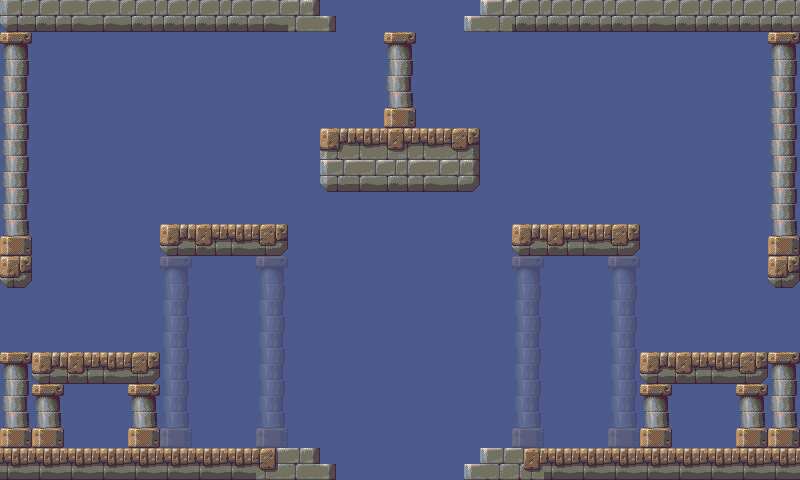
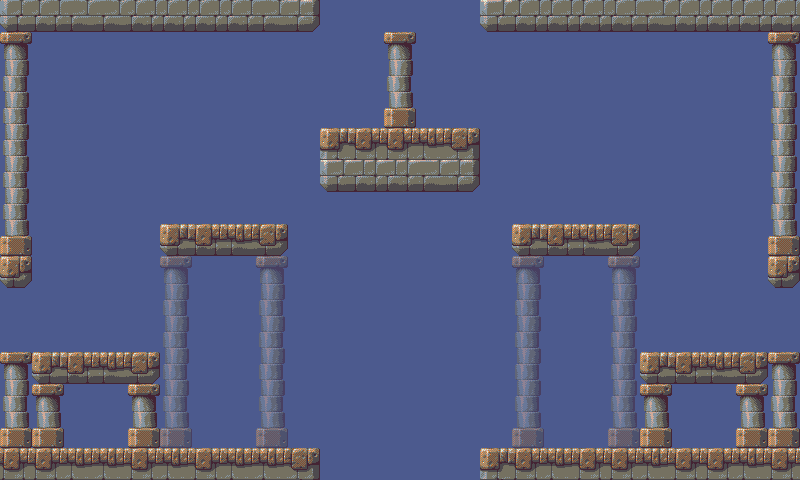
Arena is now 50x30 tiles large, and there is no overlap when a player wraps around

diff --git a/Blink/Blink/Classes/PlayerClass.cs b/Blink/Blink/Classes/PlayerClass.cs
@@ -194,13 +194,13 @@ namespace Blink.Classes
 
 
             //Looping stuff
-            testY %= SCREENSIZE.Y - Height;
-            testX %= SCREENSIZE.X - Width;
+            testY %= SCREENSIZE.Y;
+            testX %= SCREENSIZE.X;
 
             if(testY < 0)
-                testY += SCREENSIZE.Y - Height;
+                testY += SCREENSIZE.Y;
             if (testX < 0)
-                testX += SCREENSIZE.X - Width;
+                testX += SCREENSIZE.X;
 
             pos.Y = testY;
             pos.X = testX;
@@ -212,14 +212,14 @@ namespace Blink.Classes
 
             //Drawing when the player is looping over
             if (pos.X < Width)
-                sB.Draw(playerText, new Vector2(pos.X + SCREENSIZE.X - Width,pos.Y + MARGIN), Color.White);
-            else if(pos.X + Width > SCREENSIZE.X - Width)
-                sB.Draw(playerText, new Vector2(pos.X - (SCREENSIZE.X - Width), pos.Y + MARGIN), Color.White);
+                sB.Draw(playerText, new Vector2(pos.X + SCREENSIZE.X,pos.Y + MARGIN), Color.White);
+            else if(pos.X + Width > SCREENSIZE.X)
+                sB.Draw(playerText, new Vector2(pos.X - (SCREENSIZE.X), pos.Y + MARGIN), Color.White);
 
             if (pos.Y < Height)
-                sB.Draw(playerText, new Vector2(pos.X,pos.Y + SCREENSIZE.Y - Height + MARGIN), Color.White);
-            else if (pos.Y + Height > SCREENSIZE.Y - Height)
-                sB.Draw(playerText, new Vector2(pos.X, pos.Y - (SCREENSIZE.Y - Height) + MARGIN), Color.White);
+                sB.Draw(playerText, new Vector2(pos.X,pos.Y + SCREENSIZE.Y + MARGIN), Color.White);
+            else if (pos.Y + Height > SCREENSIZE.Y)
+                sB.Draw(playerText, new Vector2(pos.X, pos.Y - (SCREENSIZE.Y) + MARGIN), Color.White);
         }
     }
 }

diff --git a/Blink/Blink/Classes/Map.cs b/Blink/Blink/Classes/Map.cs
@@ -9,8 +9,8 @@ namespace Blink.Classes
 {
     class Map
     {
-        Color[] map = new Color[48*28];
-        int[,] collisionMap = new int[48,28];
+        Color[] map = new Color[50*30];
+        int[,] collisionMap = new int[50,30];
         Vector2 charSize = new Vector2(32, 32);
         int tileSize;
         Texture2D mapTexture;
